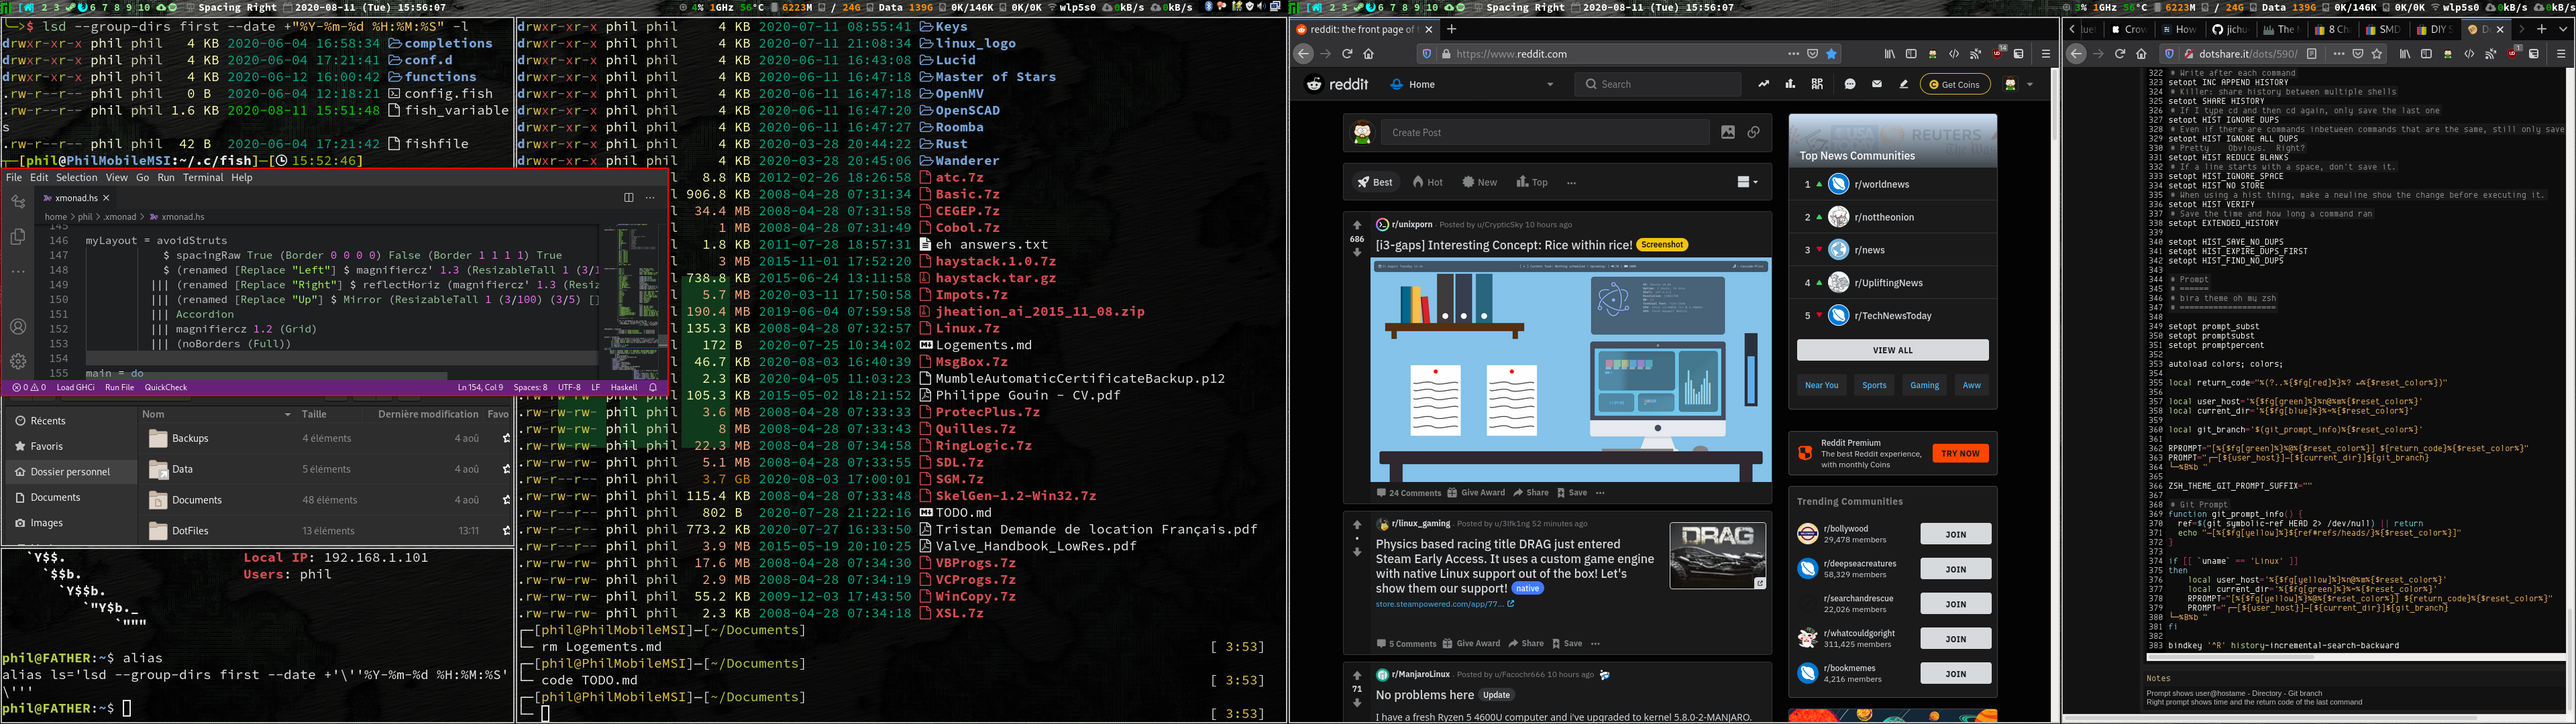
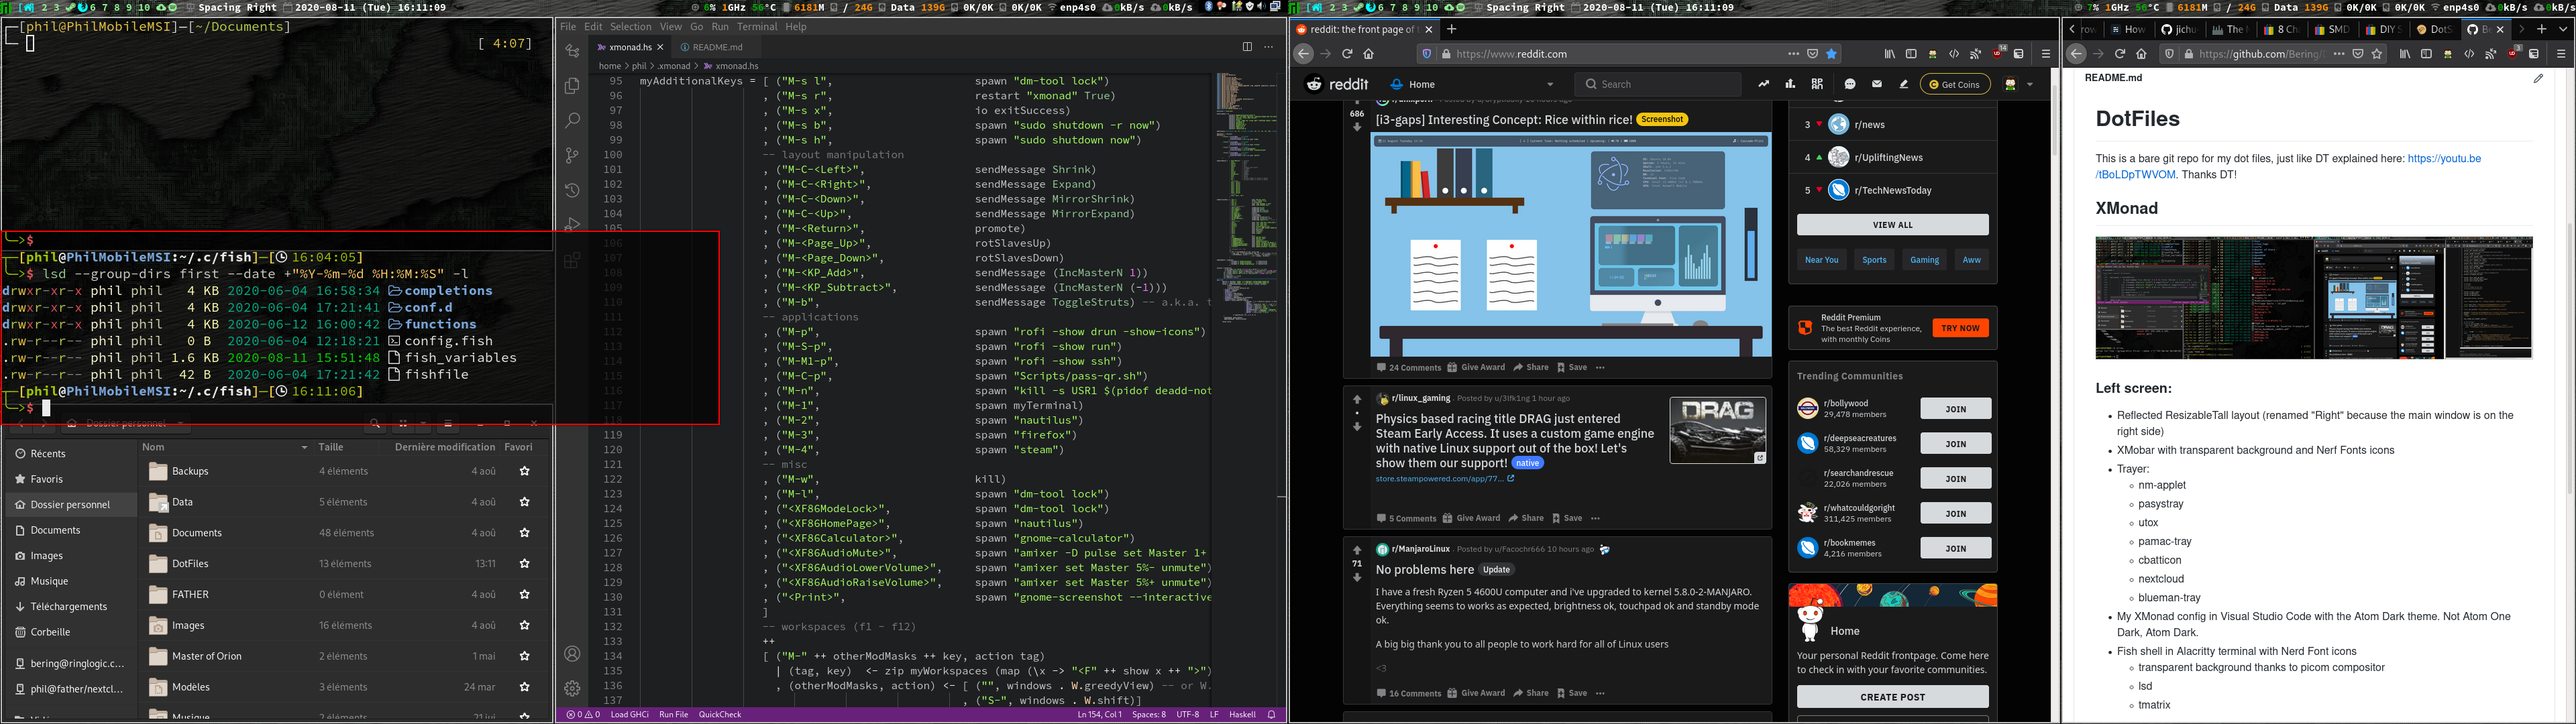
Updated screenshot and README description

diff --git a/README.md b/README.md
@@ -8,25 +8,21 @@ This is a bare git repo for my dot files, just like DT explained here: https://y
 ![screenshot](Images/xmonad.png)
 
 ### Left screen:
-  - Reflected ResizableTall layout (renamed "Right" because the main window is on the right side)
-  - XMobar with transparent background and Nerf Fonts icons
+  - Spacing Magnified Reflected ResizableTall layout (renamed "Right" because the main window is on the right side)
+  - XMobar with transparent background and Nerd Fonts icons
   - Trayer:
     * nm-applet
     * pasystray
-    * utox
     * pamac-tray
     * cbatticon
-    * nextcloud
+    * redshift-gtk
     * blueman-tray
+  - zsh shell in Alacritty terminal (transparent background thanks to picom compositor)
+  - fish shell in Alacritty terminal (listing files using lsd with Nerd Font icons)
+  - Nautilus File Manager
   - My XMonad config in Visual Studio Code with the Atom Dark theme. Not Atom One Dark, Atom Dark.
-  - Fish shell in Alacritty terminal with Nerd Font icons
-    * transparent background thanks to picom compositor
-    * lsd
-    * tmatrix
   
 ### Right screen:
-  - ResizableTall layout (renamed left because the main window in on the left side)
+  - Spacing Magnified ResizableTall layout (renamed left because the main window in on the left side)
   - Reddit in Firefox
-  - Another Terminal
-    * neofetch
-    * fortune -a
+  - This readme on GitHub in Firefox
